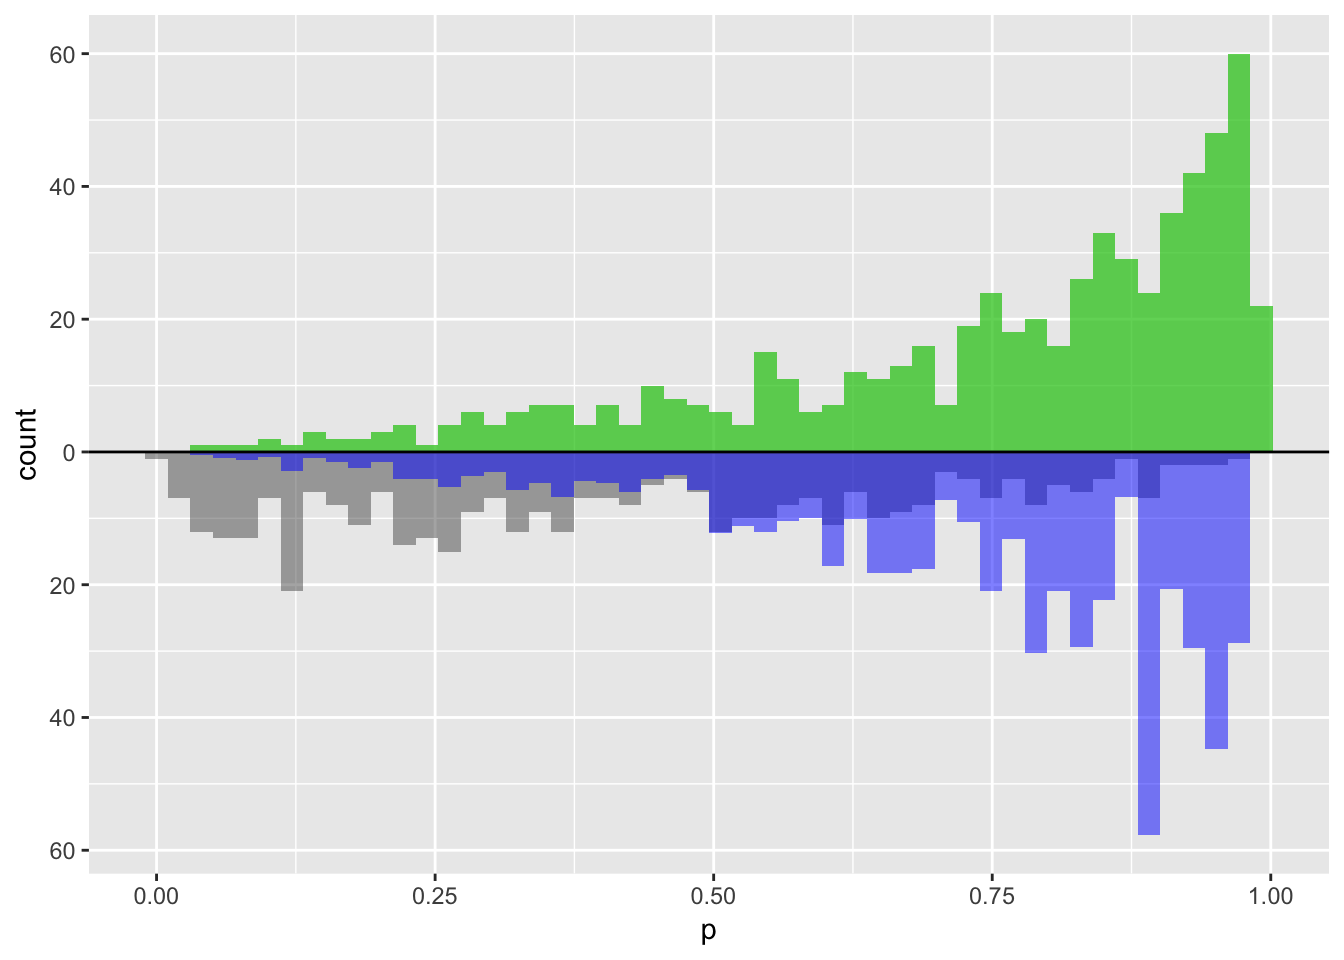
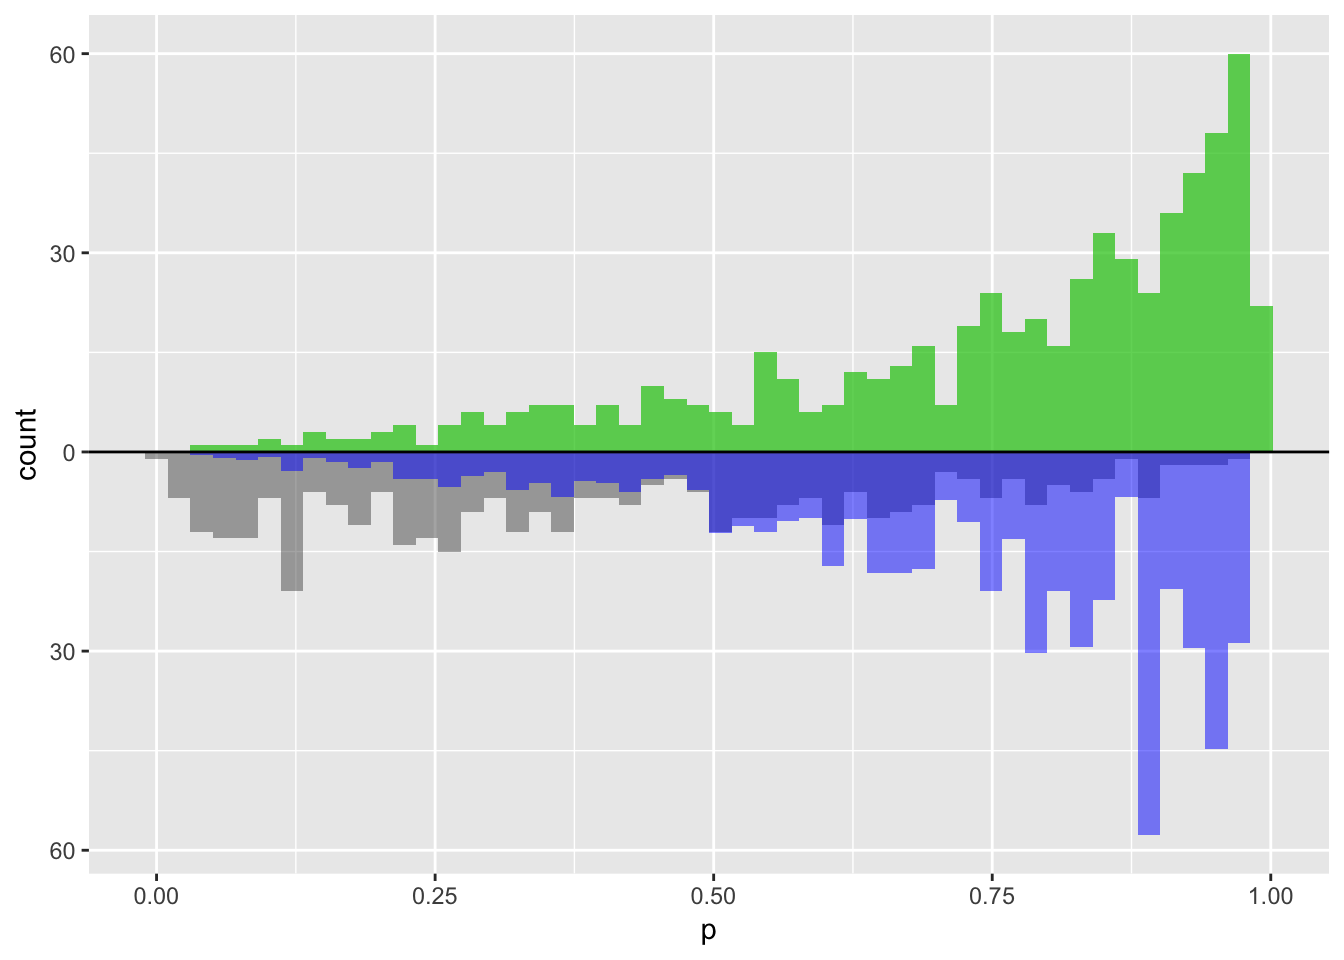
Update plpt code!

diff --git a/content/post/2019-01-17-understanding-propensity-score-weighting.html b/content/post/2019-01-17-understanding-propensity-score-weighting.html
@@ -120,8 +120,7 @@ ggplot(d) +
   geom_histogram(bins = 50, aes(x = treatment_p0, y = -..count..)) + 
   ylab(&quot;count&quot;) + xlab(&quot;p&quot;) +
   geom_hline(yintercept = 0, lwd = 0.5) +
-  scale_y_continuous(labels = c(20, 0, 20, 40, 60), 
-                     breaks= c(-20, 0, 20, 40, 60)) </code></pre>
+  scale_y_continuous(label = abs) </code></pre>
 <p><img src="/post/2019-01-17-understanding-propensity-score-weighting_files/figure-html/unnamed-chunk-4-1.png" width="672" /></p>
 <p>Examining this, we can see in this simulated sample, more patients received the treatment than the control. We can also see that among those who received the treatment, propensity scores tend to be higher (we can see this based on the skew of the histogram, with more mass towards the right where the propensity scores are closer to 1). This makes sense, since the propensity score is the probability of receiving treatment, those who received it probably had a higher probability of doing so.</p>
 <p>Now, for each weight I am going to overlay the pseudo-population that is created via weighting. The “pseudo-population” for the treated group is in green and the “pseudo-population” for the control group is in blue.</p>
@@ -134,8 +133,7 @@ ggplot(d) +
   geom_histogram(bins = 50, aes(x = treatment_p0, weight = w_ate, y = -..count..), fill = &quot;blue&quot;, alpha = 0.5) + 
   ylab(&quot;count&quot;) + xlab(&quot;p&quot;) +
   geom_hline(yintercept = 0, lwd = 0.5) +
-  scale_y_continuous(labels = c(60, 40, 20, 0, 20, 40, 60), 
-                     breaks= c(-60, -40, -20, 0, 20, 40, 60))</code></pre>
+  scale_y_continuous(label = abs) </code></pre>
 <p><img src="/post/2019-01-17-understanding-propensity-score-weighting_files/figure-html/unnamed-chunk-5-1.png" width="672" /></p>
 </div>
 <div id="att" class="section level3">
@@ -147,8 +145,7 @@ ggplot(d) +
   geom_histogram(bins = 50, aes(x = treatment_p0, weight = w_att, y = -..count..), fill = &quot;blue&quot;, alpha = 0.5) + 
   ylab(&quot;count&quot;) + xlab(&quot;p&quot;) +
   geom_hline(yintercept = 0, lwd = 0.5) +
-  scale_y_continuous(labels = c(60, 40, 20, 0, 20, 40, 60), 
-                     breaks= c(-60, -40, -20, 0, 20, 40, 60))</code></pre>
+  scale_y_continuous(label = abs) </code></pre>
 <p><img src="/post/2019-01-17-understanding-propensity-score-weighting_files/figure-html/unnamed-chunk-6-1.png" width="672" /></p>
 <p>Notice here, the “pseudo-population” for the treatment group is exactly the same as the actual population. For the ATT, we take the treatment population as it is and try to weight the control population to match it.</p>
 </div>
@@ -161,8 +158,7 @@ ggplot(d) +
   geom_histogram(bins = 50, aes(x = treatment_p0, weight = w_atc, y = -..count..), fill = &quot;blue&quot;, alpha = 0.5) + 
   ylab(&quot;count&quot;) + xlab(&quot;p&quot;) +
   geom_hline(yintercept = 0, lwd = 0.5) +
-  scale_y_continuous(labels = c(60, 40, 20, 0, 20, 40, 60), 
-                     breaks= c(-60, -40, -20, 0, 20, 40, 60))</code></pre>
+  scale_y_continuous(label = abs) </code></pre>
 <p><img src="/post/2019-01-17-understanding-propensity-score-weighting_files/figure-html/unnamed-chunk-7-1.png" width="672" /></p>
 <p>Notice now this is the opposite of the previous graph. Now the target population is the control group, so this “pseudo-population” exactly matches the population of controls and the treatment group is weighted to try to mimic this.</p>
 </div>
@@ -175,8 +171,7 @@ ggplot(d) +
   geom_histogram(bins = 50, aes(x = treatment_p0, weight = w_atm, y = -..count..), fill = &quot;blue&quot;, alpha = 0.5) + 
   ylab(&quot;count&quot;) + xlab(&quot;p&quot;) +
   geom_hline(yintercept = 0, lwd = 0.5) +
-  scale_y_continuous(labels = c(60, 40, 20, 0, 20, 40, 60), 
-                     breaks= c(-60, -40, -20, 0, 20, 40, 60))</code></pre>
+  scale_y_continuous(label = abs) </code></pre>
 <p><img src="/post/2019-01-17-understanding-propensity-score-weighting_files/figure-html/unnamed-chunk-8-1.png" width="672" /></p>
 <p>This “pseudo-population” looks like a 1:1 matched population. In the regions where the treatment group is in the minority, on the left side of the graph, the controls are weighted to match the distribution of the treated. In the regions where the control group is in the minority, on the right side of the graph, the treated are weighted to match the distribution of the controls.</p>
 </div>
@@ -189,8 +184,7 @@ ggplot(d) +
   geom_histogram(bins = 50, aes(x = treatment_p0, weight = w_ato, y = -..count..), fill = &quot;blue&quot;, alpha = 0.5) + 
   ylab(&quot;count&quot;) + xlab(&quot;p&quot;) +
   geom_hline(yintercept = 0, lwd = 0.5) +
-  scale_y_continuous(labels = c(60, 40, 20, 0, 20, 40, 60), 
-                     breaks= c(-60, -40, -20, 0, 20, 40, 60))</code></pre>
+  scale_y_continuous(label = abs) </code></pre>
 <p><img src="/post/2019-01-17-understanding-propensity-score-weighting_files/figure-html/unnamed-chunk-9-1.png" width="672" /></p>
 <p>This looks a lot like the ATM graph, except shifted just a bit to improve the variance properties.</p>
 </div>
